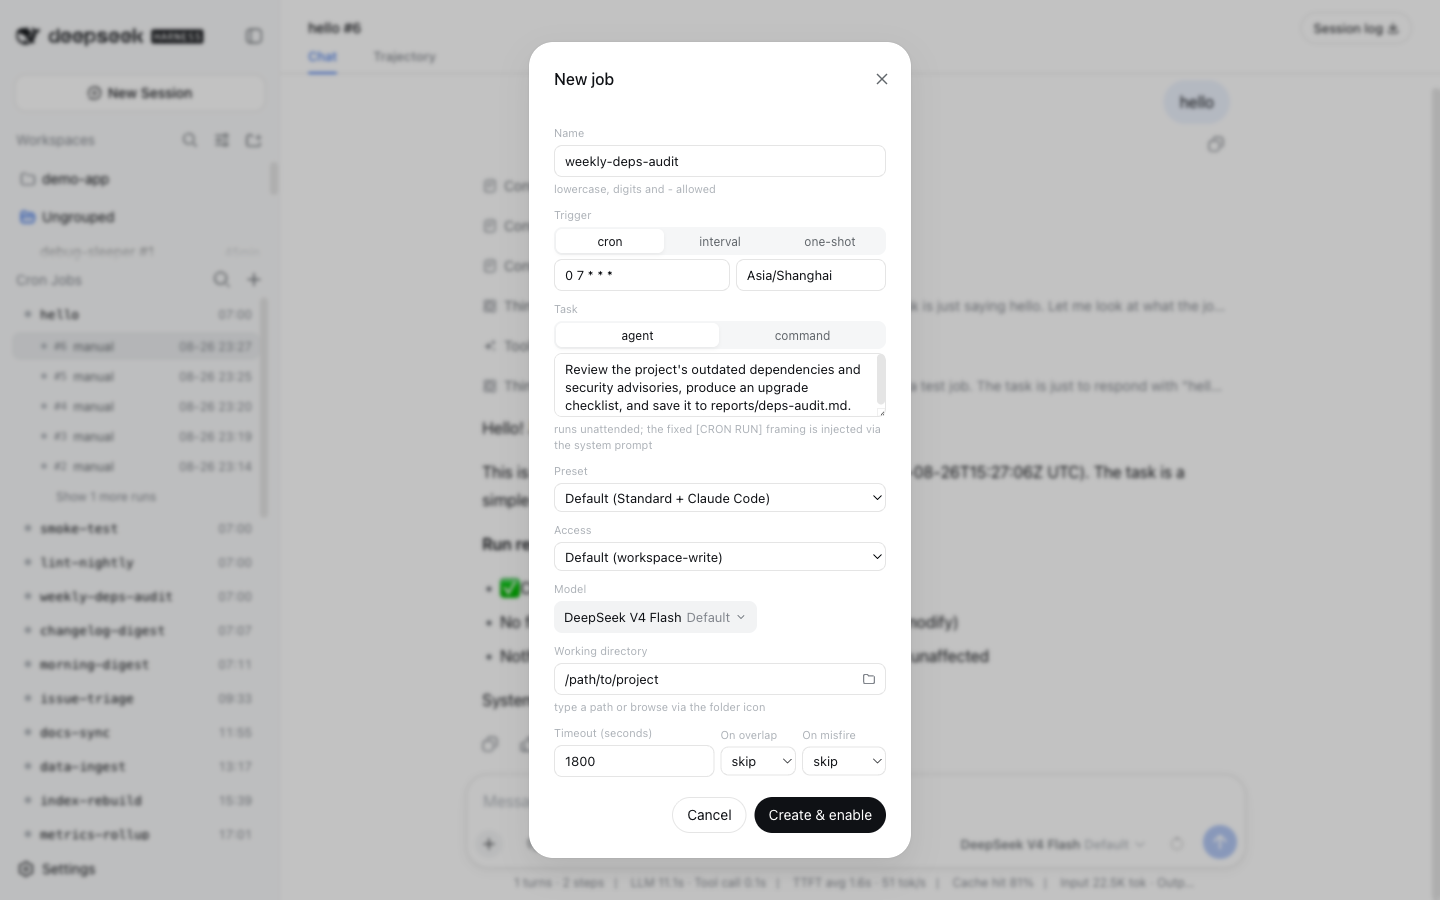
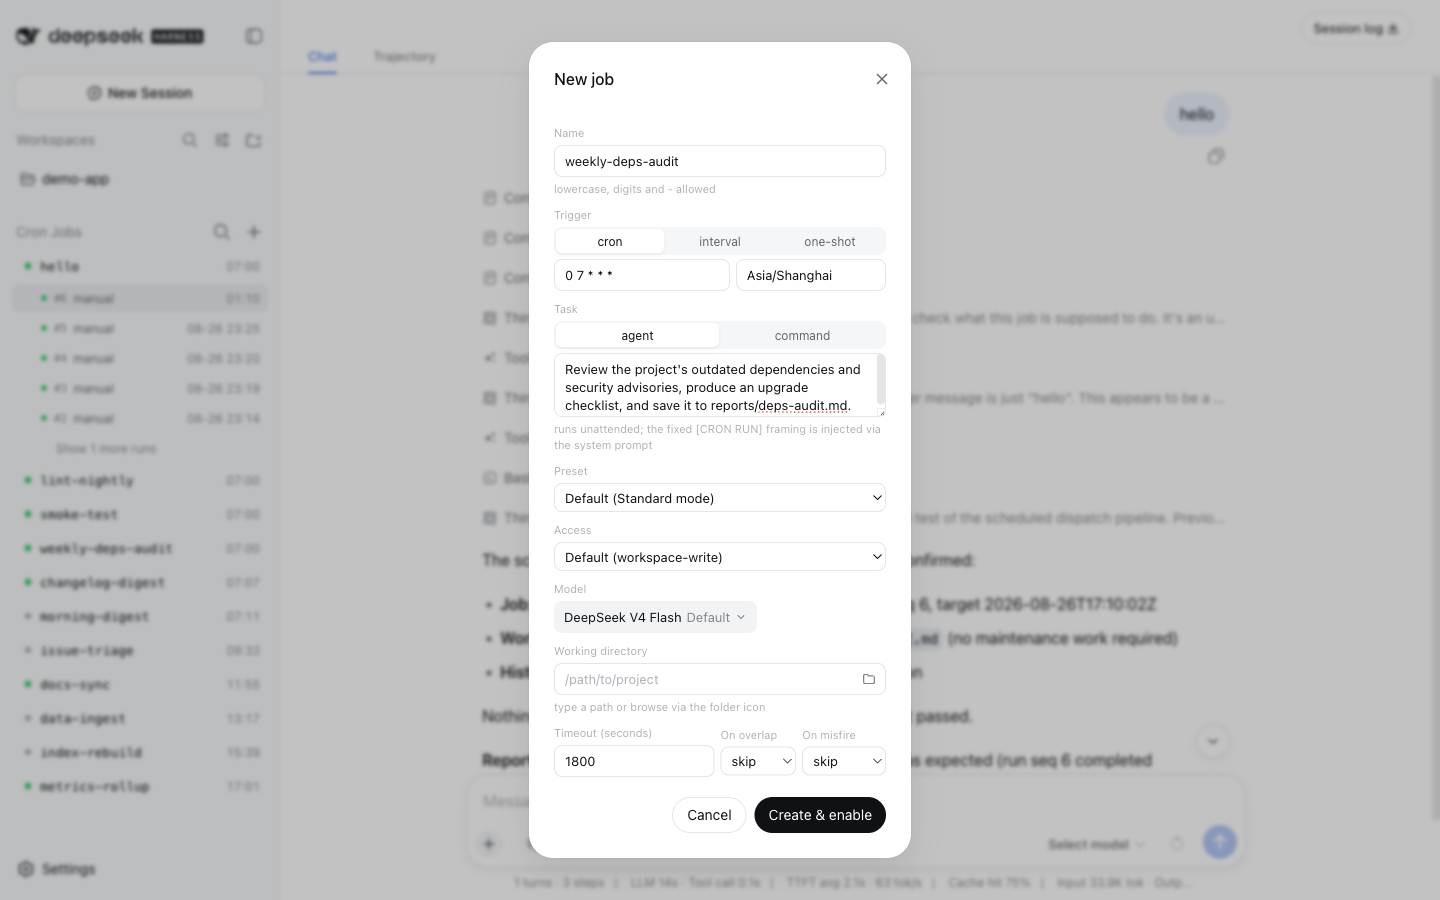
docs: README 增补市场/tarball 安装方案与使用章节（手工建单+会话内建单），重制截图展示恢复后的状态点高亮

diff --git a/README.md b/README.md
@@ -27,16 +27,32 @@ Unattended scheduled-jobs plugin for DeepSeek Harness (dsh): run **agent tasks**
 
 ## Installation
 
+### From the Plugin Market
+
+With [dsh-market](https://github.com/dsh-market/dsh-market) installed, open **Settings → Plugin Market**, search **dsh-cron**, and install with one click — the market adds both the dependency and the profile bundle entry for you, and most installs go live after a page refresh.
+
+Or install the release tarball from the command line (this only runs the package install — add `"dsh-cron"` to `dsh.profile.bundles` yourself, as shown below):
+
+```sh
+dsh plugin --profile web add https://github.com/squirrel20/dsh-cron/releases/latest/download/dsh-cron.tgz
+```
+
+> The npm package named `dsh-cron` is an unrelated project — install from the market or the release tarball, not from the npm registry.
+
+### From source
+
 In your profile's `package.json`:
 
 ```jsonc
 {
-  "dependencies": { "dsh-cron": "link:/path/to/dsh-cron" },   // or an npm/git source
+  "dependencies": { "dsh-cron": "link:/path/to/dsh-cron" },   // or a git checkout / release tarball
   "dsh": { "profile": { "bundles": [ /* …existing bundles… */, "dsh-cron" ] } }
 }
 ```
 
-Then declare jobs by overriding the config in the profile's `cordis.patch.yml`:
+### Config-declared jobs (optional)
+
+Declare always-on jobs by overriding the config in the profile's `cordis.patch.yml` — or skip this entirely and create jobs from the UI or a session (see [Usage](#usage)):
 
 ```yaml
 - id: dsh-cron
@@ -58,12 +74,35 @@ Then declare jobs by overriding the config in the profile's `cordis.patch.yml`:
       - name: heartbeat
         schedule: { everySeconds: 3600 }
         task: { kind: command, argv: ["./scripts/heartbeat.sh"], cwd: /path/to/project }
-    sessionGc:            # 可省略；默认 enabled: true, graceMinutes: 30, root: ~/.dsh/sessions
+    sessionGc:            # optional; defaults: enabled: true, graceMinutes: 30, root: ~/.dsh/sessions
       enabled: true
       graceMinutes: 30
 ```
 
 Job misconfiguration (duplicate names, invalid expressions, missing time zone, …) fails loud at mount time — it is never swallowed silently.
+
+## Usage
+
+### Adding a job by hand
+
+Click **`+`** in the sidebar's **Cron Jobs** section header. The New job dialog configures everything on one screen:
+
+- **Name** — lowercase, digits and `-`.
+- **Trigger** — `cron` (5-field expression + IANA time zone), `interval`, or `one-shot`.
+- **Task** — `agent` (a prompt executed unattended through the full dsh toolchain) or `command` (an argv to spawn).
+- **Preset / Access / Model** — leave blank to inherit the host defaults.
+- **Working directory** — type a path or browse via the folder icon.
+- **Timeout, On overlap, On misfire** — see [Features](#features) for the policy semantics.
+
+**Create & enable** persists the job (a "manual" chip marks it apart from config-declared jobs). Afterwards, each row's `⋯` menu offers **Run now / Pause schedule / Edit job / Delete job**; clicking a row expands its run history, and clicking an agent run opens that run's full session replay.
+
+### Adding a job from a session
+
+Just ask the agent in any session:
+
+> Every Monday at 07:00 review our outdated dependencies and save an upgrade checklist to reports/deps-audit.md.
+
+The bundled **cron-create** skill (auto-registered when the host has a skill registry) walks the model through collect → confirm → create → verify, calling the `cron_create` tool under the hood; `cron_delete` removes a manual job the same way. Jobs created from a session are ordinary manual jobs — the exact same overlay the web dialog writes — so they show up in the sidebar immediately and can be edited there later. The read/steer tools (`cron_list`, `cron_runs`, `cron_run_now`, `cron_enable`, `cron_disable`) work on config-declared jobs too.
 
 ## Run records
 

diff --git a/README.zh-CN.md b/README.zh-CN.md
@@ -27,16 +27,32 @@ DeepSeek Harness (dsh) 的无人值守定时任务插件：按 cron 表达式 / 
 
 ## 安装
 
+### 插件市场安装
+
+装有 [dsh-market](https://github.com/dsh-market/dsh-market) 时，打开 **设置 → 插件市场**，搜索 **dsh-cron** 一键安装——市场会同时写好依赖与 profile 的 bundle 声明，多数情况下刷新页面即生效。
+
+也可以用命令行直接装 release tarball（这只完成包安装，`dsh.profile.bundles` 里的 `"dsh-cron"` 需按下文自行补上）：
+
+```sh
+dsh plugin --profile web add https://github.com/squirrel20/dsh-cron/releases/latest/download/dsh-cron.tgz
+```
+
+> npm 上名为 `dsh-cron` 的包是另一个无关项目——请从插件市场或 release tarball 安装，不要走 npm registry。
+
+### 源码安装
+
 profile 的 `package.json`：
 
 ```jsonc
 {
-  "dependencies": { "dsh-cron": "link:/path/to/dsh-cron" },   // 或 npm/git 来源
+  "dependencies": { "dsh-cron": "link:/path/to/dsh-cron" },   // 或 git checkout / release tarball
   "dsh": { "profile": { "bundles": [ /* …既有 bundles… */, "dsh-cron" ] } }
 }
 ```
 
-然后在 profile 的 `cordis.patch.yml` 里覆盖 config 声明作业：
+### config 声明作业（可选）
+
+需要「常驻声明式」作业时，在 profile 的 `cordis.patch.yml` 里覆盖 config；也可以完全跳过这步，改用界面或会话内创建（见[使用](#使用)）：
 
 ```yaml
 - id: dsh-cron
@@ -61,6 +77,29 @@ profile 的 `package.json`：
 ```
 
 作业配置错误（重名、非法表达式、缺时区等）在挂载期 fail loud，不会静默吞掉。
+
+## 使用
+
+### 手工添加作业
+
+点侧栏 **Cron Jobs** section 标题上的 **`+`**，新建作业弹窗一屏配完：
+
+- **名称**——小写字母、数字与 `-`。
+- **触发**——`cron`（5 字段表达式 + IANA 时区）、`interval` 周期、`one-shot` 一次性。
+- **任务**——`agent`（prompt 无人值守走完整 dsh 工具链）或 `command`（spawn 一条 argv）。
+- **Preset / 权限 / 模型**——留空继承宿主默认。
+- **工作目录**——手输路径或点文件夹图标浏览选择。
+- **超时、重叠策略、错过策略**——语义见[能力](#能力)。
+
+**Create & enable** 落盘保存（「manual」标记与 config 声明的作业区分）。之后每行的 `⋯` 菜单提供 **立即运行 / 暂停调度 / 编辑 / 删除**；点行展开运行历史，点某次 agent 运行直接打开该次运行的完整会话回放。
+
+### 会话内添加作业
+
+在任意会话里直接对 agent 说需求即可：
+
+> 每周一早上 7 点检查过期依赖，把升级清单存到 reports/deps-audit.md。
+
+配套的 **cron-create** skill（宿主有 skill 注册表时自动注册）引导模型走 收集 → 确认 → 创建 → 验证 全流程，底层调用 `cron_create` 工具；`cron_delete` 同样可在会话中删除手动作业。会话里建出的作业就是普通 manual 作业——与网页弹窗写的是同一张表——立即出现在侧栏，之后也能在界面里编辑。读取/拨动类工具（`cron_list`、`cron_runs`、`cron_run_now`、`cron_enable`、`cron_disable`）对 config 声明的作业同样有效。
 
 ## 运行记录
 
